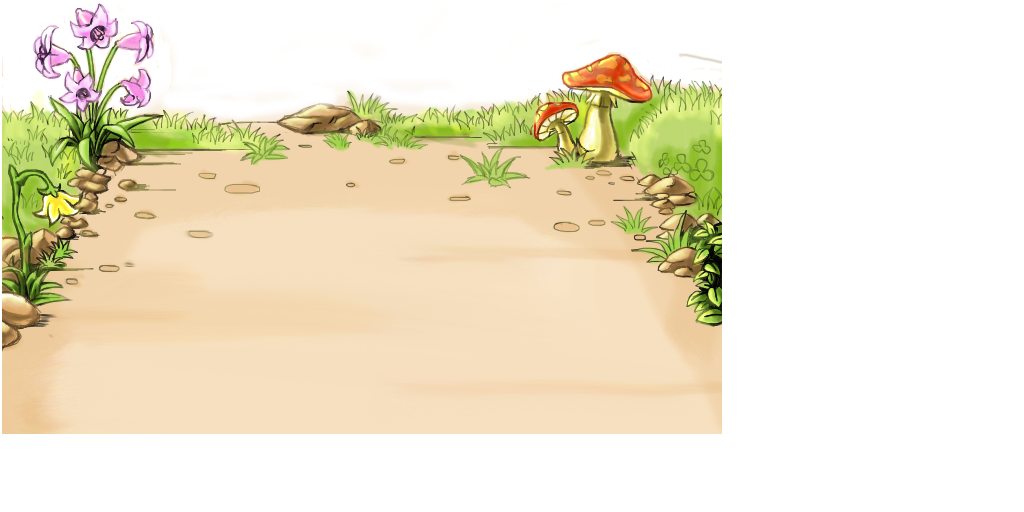
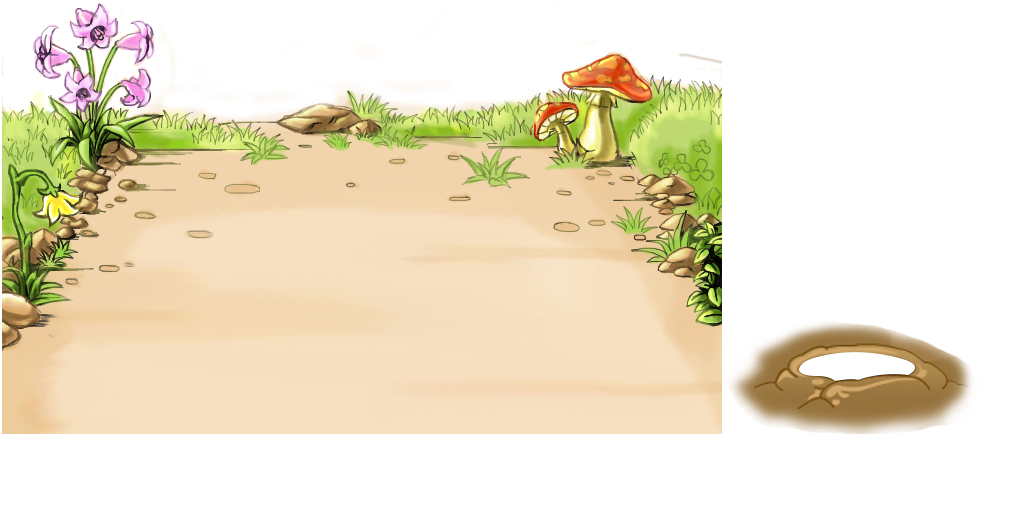
ve ho thu cong

Changed region(s): [[0.7188, 0.625, 0.9688, 0.8438]]

diff --git a/StrikeMouse/src/SE/G04/StrikeMouse/game/Controller.java b/StrikeMouse/src/SE/G04/StrikeMouse/game/Controller.java
@@ -1,21 +1,58 @@
 package SE.G04.StrikeMouse.game;
 
 import SE.G04.StrikeMouse.util.Constants;
+import com.badlogic.gdx.math.MathUtils;
 
 import com.badlogic.gdx.graphics.g2d.Sprite;
 
 public class Controller {
 	private static final String TAG =  Controller.class.getName();
 	public Sprite backGround;
+	public Sprite hole[];
+	//public Sprite mouse;
 	
 	public Controller () {
 		init();
 	}
 	
 	private void init () {
+		
 		backGround = new Sprite(Assets.instance.backGround.backGround);
 		backGround.setSize(Constants.VIEWPORT_WIDTH, Constants.VIEWPORT_HEIGHT);
 		backGround.translate(-Constants.VIEWPORT_WIDTH/2, -Constants.VIEWPORT_HEIGHT/2);
+		
+		hole = new Sprite[11];
+		
+		for(int i=0; i<11; i++){
+			hole[i]= new Sprite(Assets.instance.hole.hole);
+			hole[i].setSize(2,(float) 1.5);
+		}
+		
+		for(int i=3; i<7; i++){
+			hole[i].setSize((float) 2,(float) 1.75);
+		}
+		
+		for(int i=7; i<11; i++){
+			hole[i].setSize((float) 2.5,(float) 2);
+		}
+		
+		
+		hole[0].setPosition(Constants.hole1width, Constants.hole1height);
+		hole[1].setPosition(Constants.hole2width, Constants.hole2height);
+		hole[2].setPosition(Constants.hole3width, Constants.hole3height);
+		hole[3].setPosition(Constants.hole4width, Constants.hole4height);
+		hole[4].setPosition(Constants.hole5width, Constants.hole5height);
+		hole[5].setPosition(Constants.hole6width, Constants.hole6height);
+		hole[6].setPosition(Constants.hole7width, Constants.hole7height);
+		hole[7].setPosition(Constants.hole8width, Constants.hole8height);
+		hole[8].setPosition(Constants.hole9width, Constants.hole9height);
+		hole[9].setPosition(Constants.hole10width, Constants.hole10height);
+		hole[10].setPosition(Constants.hole11width, Constants.hole11height);
+	
+//		mouse = new Sprite(Assets.instance.mouse.mouse);
+//		mouse.setSize((float)2,(float) 1.5);
+//		mouse.setPosition(Constants.hole1width, Constants.hole1height);
+//		
 	}
 	
 	public void update (float deltaTime) {

diff --git a/StrikeMouse/src/SE/G04/StrikeMouse/util/Constants.java b/StrikeMouse/src/SE/G04/StrikeMouse/util/Constants.java
@@ -3,9 +3,45 @@ package SE.G04.StrikeMouse.util;
 import com.badlogic.gdx.Gdx;
 
 public class Constants {
-	public static final float VIEWPORT_WIDTH = Gdx.graphics.getWidth();
-	
-	public static final float VIEWPORT_HEIGHT = Gdx.graphics.getHeight();
-	
+	//public static final float VIEWPORT_WIDTH = Gdx.graphics.getWidth();
+	public static final float VIEWPORT_WIDTH = 10;
+	//public static final float VIEWPORT_HEIGHT = Gdx.graphics.getHeight();
+	public static final float VIEWPORT_HEIGHT = 10;
 	public static final String TEXTURE_ATLAS_OBJECTS = "images/strikemouse.pack";
+	
+	public static final float hole1width = (float) -3;
+	public static final float hole1height = 0;
+	
+	public static final float hole2width = (float) -1;
+	public static final float hole2height = 0;
+	
+	public static final float hole3width = (float) 1;
+	public static final float hole3height = 0;
+	
+	public static final float hole4width = (float) -4;
+	public static final float hole4height = (float) -2.15;
+	
+	public static final float hole5width = (float) -2.;
+	public static final float hole5height = (float) -2.15;
+	
+	public static final float hole6width = (float) 0;
+	public static final float hole6height = (float) -2.15;
+	
+	public static final float hole7width = (float) 2;
+	public static final float hole7height = (float) -2.15;
+	
+	public static final float hole8width = (float) -5;
+	public static final float hole8height = (float) -4.5;
+	
+	public static final float hole9width = (float) -2.5;
+	public static final float hole9height = (float) -4.5;
+	
+	public static final float hole10width = (float) 0;
+	public static final float hole10height = (float) -4.5;
+	
+	public static final float hole11width = (float) 2.5;
+	public static final float hole11height = (float) -4.5;
+	
+
+	
 }

diff --git a/StrikeMouse/src/SE/G04/StrikeMouse/game/Assets.java b/StrikeMouse/src/SE/G04/StrikeMouse/game/Assets.java
@@ -18,6 +18,8 @@ public class Assets implements Disposable, AssetErrorListener {
 	private AssetManager assetManager;
 	
 	public AssetBackGround backGround;
+	public Assethole hole;
+	//public Assetmouse mouse;
 	
 	private Assets() {}
 	
@@ -36,6 +38,8 @@ public class Assets implements Disposable, AssetErrorListener {
 			t.setFilter(TextureFilter.Linear, TextureFilter.Linear);
 		
 		backGround = new AssetBackGround(atlas);
+		hole = new Assethole(atlas);
+	//	mouse = new Assetmouse(atlas);
 	}
 	
 	@Override
@@ -57,4 +61,20 @@ public class Assets implements Disposable, AssetErrorListener {
 			backGround = atlas.findRegion("back_ground");
 		}
 	}
+	
+	public class Assethole{
+		public final AtlasRegion hole;
+		
+		public Assethole(TextureAtlas atlas){
+			hole = atlas.findRegion("hole");
+		}
+	}
+	
+//	public class Assetmouse{
+//		public final AtlasRegion mouse;
+//		
+//		public Assetmouse(TextureAtlas atlas){
+//			mouse = atlas.findRegion("mouse");
+//		}
+//	}
 }

diff --git a/StrikeMouse/src/SE/G04/StrikeMouse/game/Renderer.java b/StrikeMouse/src/SE/G04/StrikeMouse/game/Renderer.java
@@ -29,6 +29,10 @@ public class Renderer implements Disposable {
 		batch.setProjectionMatrix(camera.combined);	
 		batch.begin();
 		controller.backGround.draw(batch);
+		for(int i=0; i<=10; i++){
+		controller.hole[i].draw(batch);
+		}
+		//controller.mouse.draw(batch);
 		batch.end();
 	}
 	
